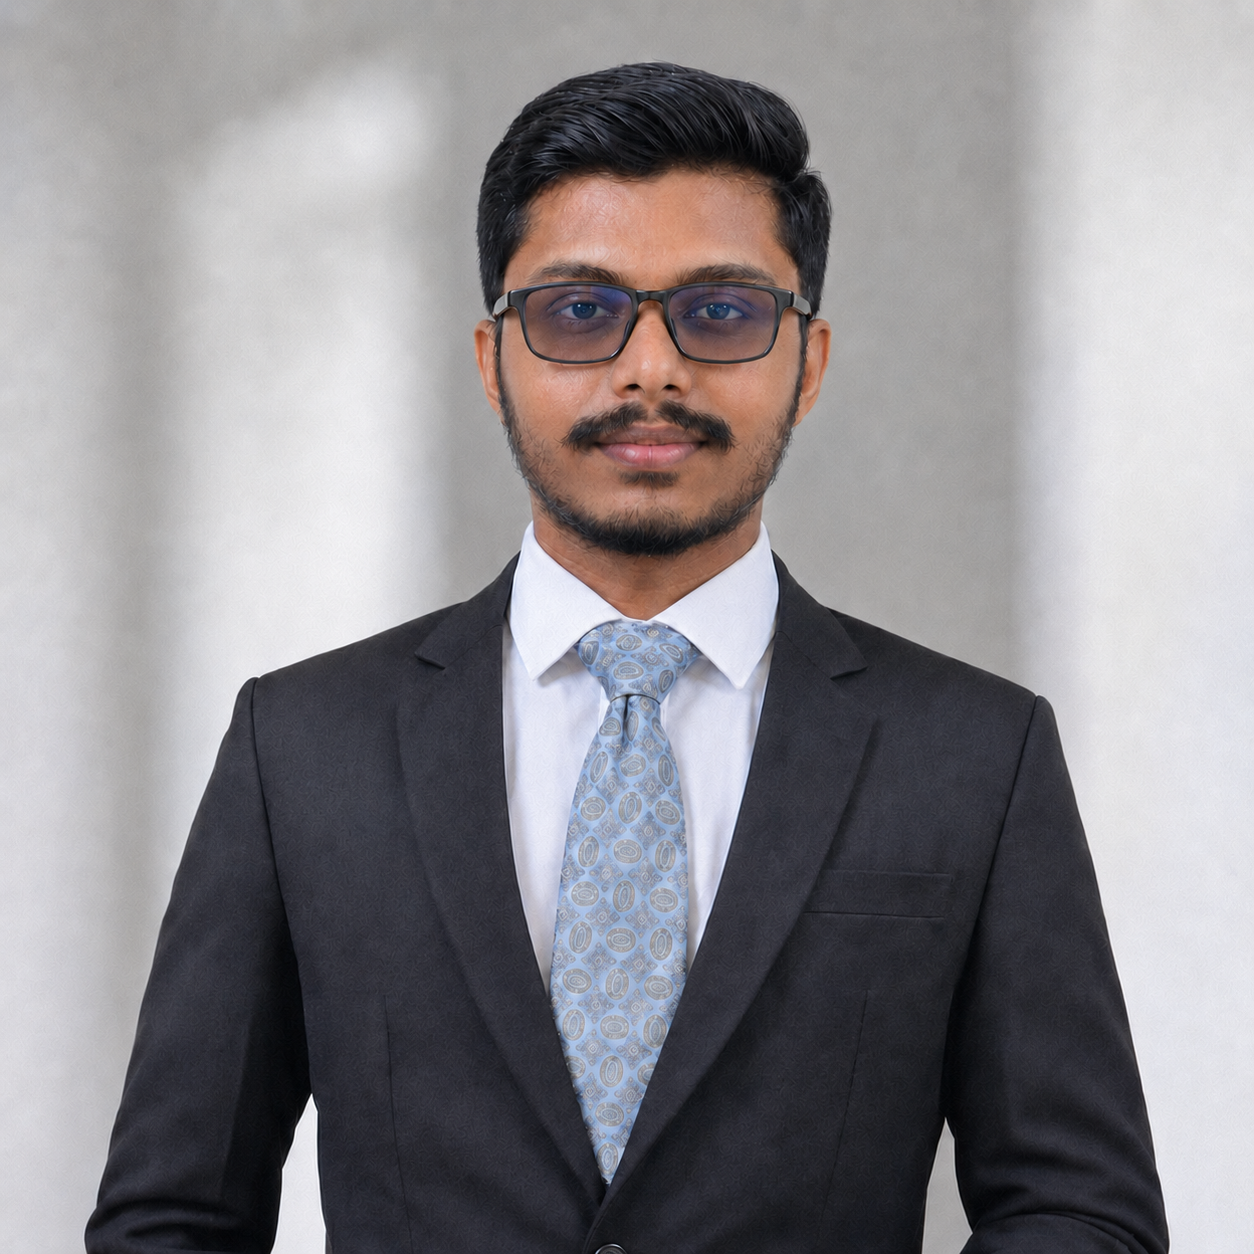
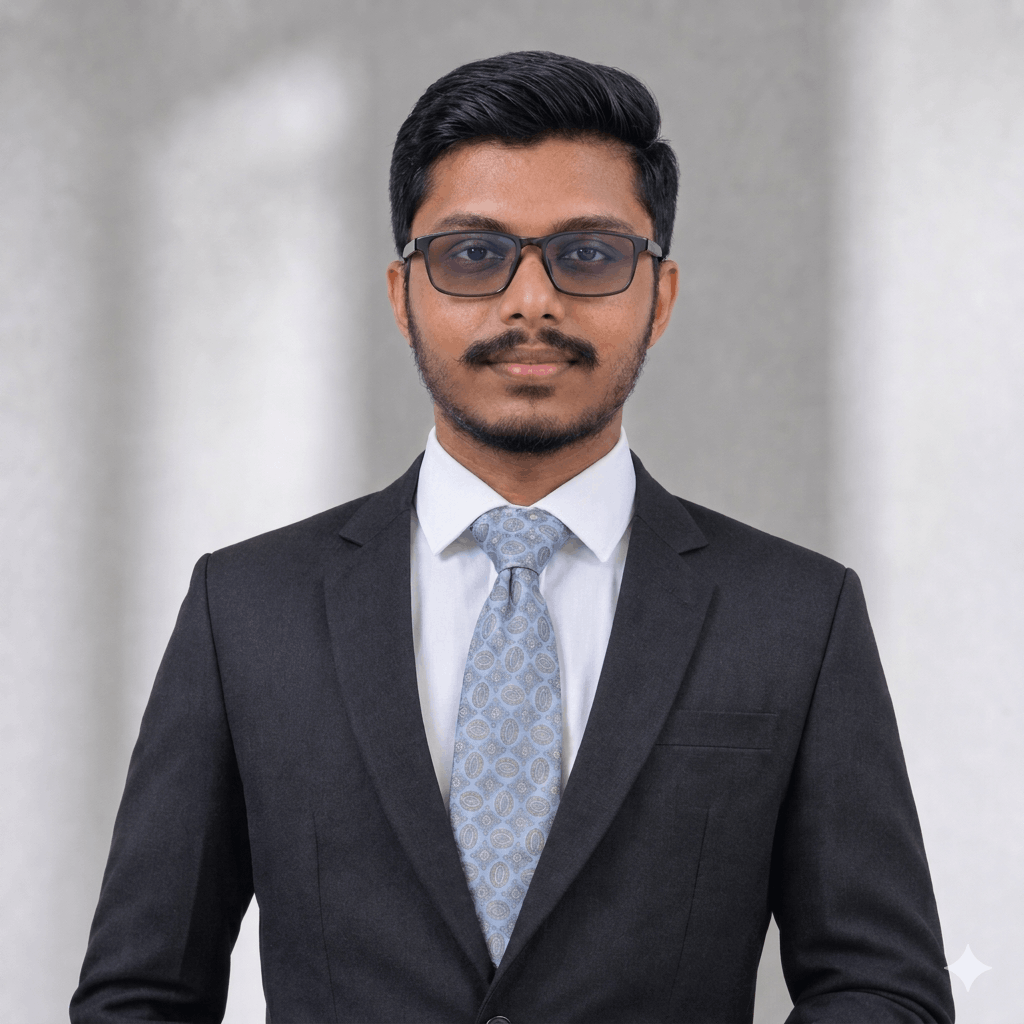
feat: enhance project image display with clickable links and hover effects

Changed region(s): [[0.4688, 0.5, 0.5625, 0.5938], [0.5625, 0.2188, 0.5938, 0.25], [0.4688, 0.9062, 0.5, 0.9375]]

diff --git a/src/sections/Projects.jsx b/src/sections/Projects.jsx
@@ -94,18 +94,38 @@ const Projects = () => {
                                 <div className="absolute inset-0 bg-gradient-to-br from-violet-400/5 via-transparent to-purple-400/5 dark:from-violet-500/10 dark:via-transparent dark:to-purple-500/10"></div>
                             </div>
 
-                            {project.imageUrl && (
-                                <div className="h-48 overflow-hidden relative">
-                                    <img
-                                        src={`${import.meta.env.BASE_URL}${project.imageUrl.replace(/^\//, '')}`}
-                                        alt={project.title}
-                                        className="w-full h-full object-cover group-hover:scale-105 transition-transform duration-500"
-                                        loading="lazy"
-                                        onError={(e) => { e.target.style.display = 'none'; }}
-                                    />
-                                    <div className="absolute inset-0 bg-gradient-to-t from-slate-900/60 to-transparent opacity-0 group-hover:opacity-100 transition-opacity"></div>
-                                </div>
-                            )}
+                            {project.imageUrl && (() => {
+                                const imageLink = project.liveDemo && project.liveDemo !== '#'
+                                    ? project.liveDemo
+                                    : project.uiDesignUrl && project.uiDesignUrl !== '#'
+                                        ? project.uiDesignUrl
+                                        : project.githubUrl;
+                                return (
+                                    <a
+                                        href={imageLink}
+                                        target="_blank"
+                                        rel="noopener noreferrer"
+                                        aria-label={`Open ${project.title}`}
+                                        className="block h-48 overflow-hidden relative group/img"
+                                    >
+                                        <img
+                                            src={`${import.meta.env.BASE_URL}${project.imageUrl.replace(/^\//, '')}`}
+                                            alt={project.title}
+                                            className="w-full h-full object-cover group-hover:scale-105 transition-transform duration-500"
+                                            loading="lazy"
+                                            onError={(e) => { e.target.style.display = 'none'; }}
+                                        />
+                                        {/* Dark overlay on hover */}
+                                        <div className="absolute inset-0 bg-gradient-to-t from-slate-900/70 via-slate-900/20 to-transparent opacity-0 group-hover:opacity-100 transition-opacity duration-300" />
+                                        {/* Click hint icon */}
+                                        <div className="absolute inset-0 flex items-center justify-center opacity-0 group-hover:opacity-100 transition-opacity duration-300">
+                                            <div className="bg-white/20 backdrop-blur-sm border border-white/30 rounded-full p-3 shadow-lg">
+                                                <ExternalLink size={20} className="text-white" />
+                                            </div>
+                                        </div>
+                                    </a>
+                                );
+                            })()}
                             <div className="p-6 flex-1 flex flex-col relative z-10">
                                 <div className="flex justify-between items-start mb-4">
                                     <div className="p-3 bg-violet-100 dark:bg-violet-900/30 rounded-xl text-violet-600 dark:text-violet-400 group-hover:bg-violet-200 dark:group-hover:bg-violet-900/50 transition-colors">